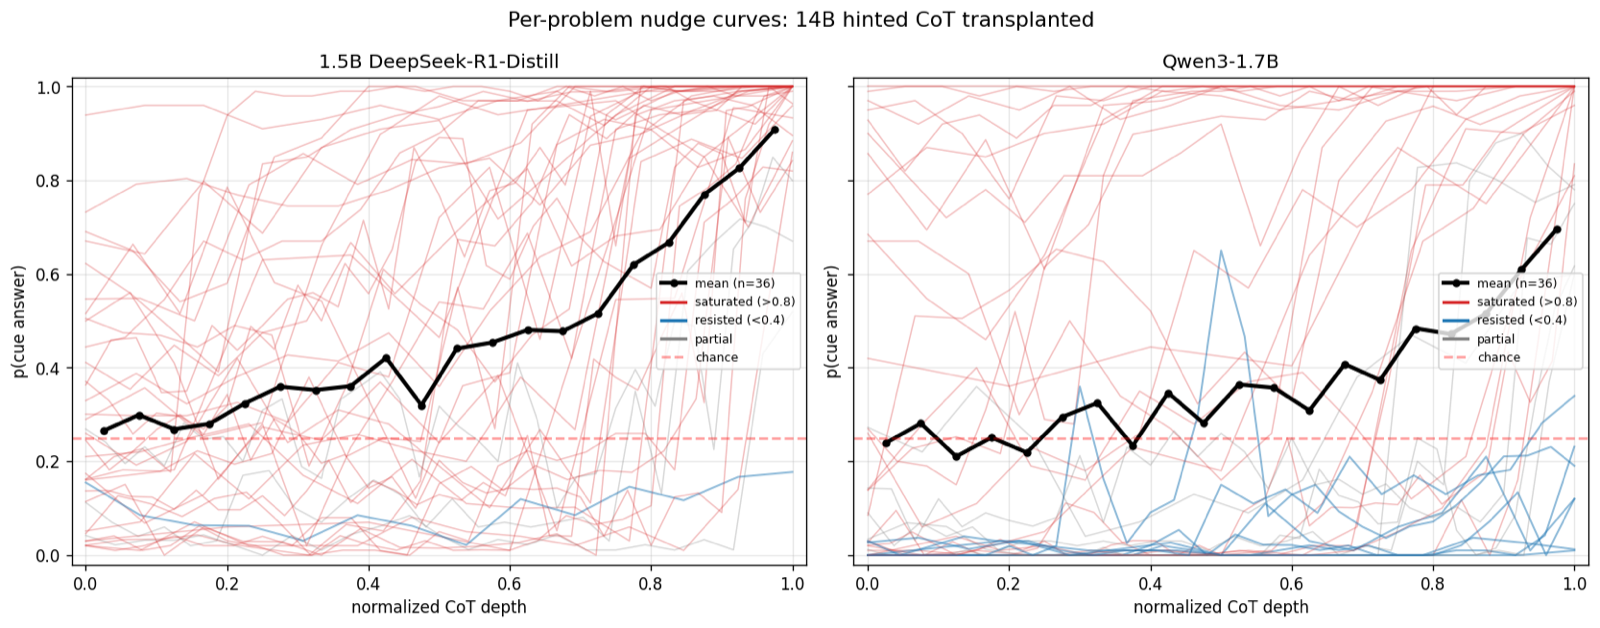
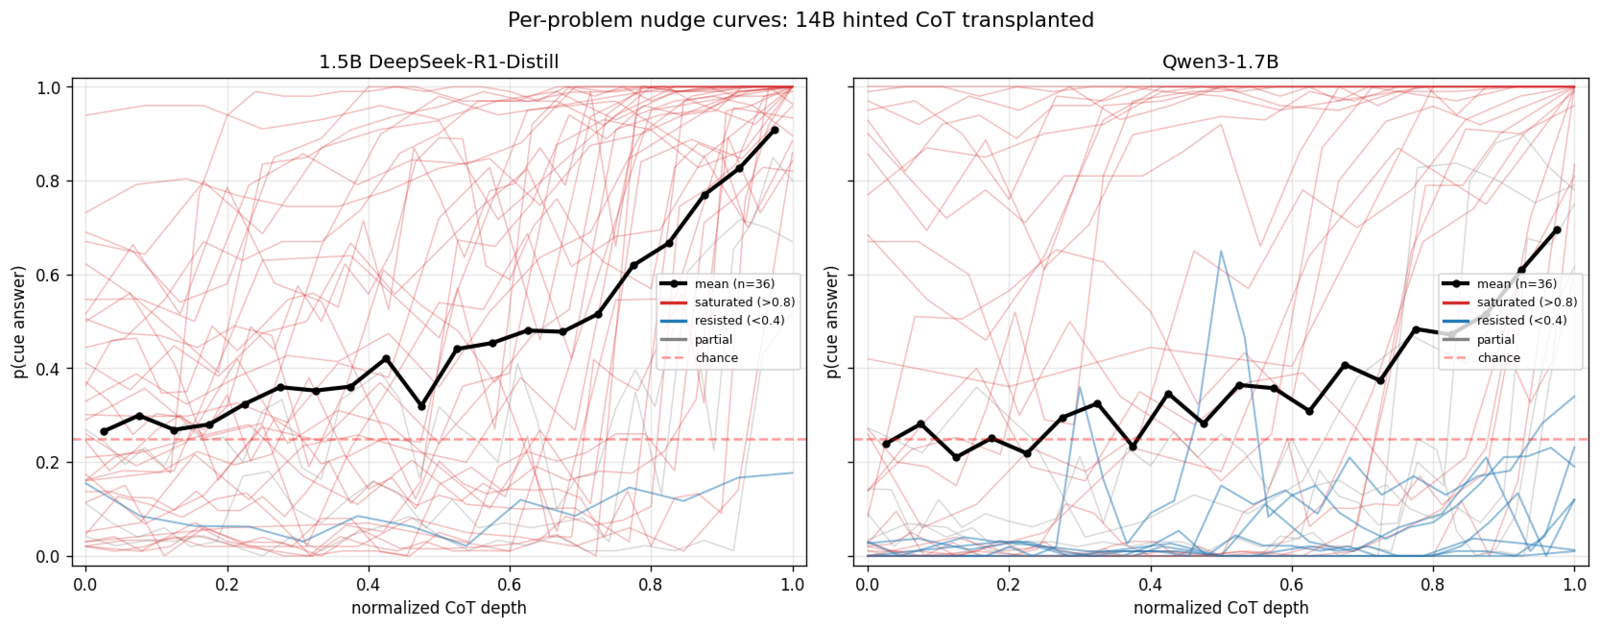
publish: activations, traces-even-for, pointers

Changed region(s): [[0.0625, 0.8774, 0.5, 0.9076], [0.5625, 0.8774, 0.9688, 0.9076]]

diff --git a/_writing/personas-as-pointers.md b/_writing/personas-as-pointers.md
@@ -1,6 +1,6 @@
 ---
 title: Personas as pointers
-description: Using other people's vibes as shortcuts to states of mind
+description: "Using other people's vibes as shortcuts to states of mind"
 date: 2026-04-03
 ---
 I saw a tweet recently about ADHD brains being similar to LLM minds, and it made me think about something adjacent, which is personas.

diff --git a/_writing/reasoning-model-activations.md b/_writing/reasoning-model-activations.md
@@ -1,5 +1,5 @@
 ---
-title: Reasoning Model Activations May Encode Hint Influence That Chain-of-Thought Doesn't Reveal
+title: "Reasoning Model Activations May Encode Hint Influence That Chain-of-Thought Doesn't Reveal"
 description: Linear probes detect hint influence in OLMo reasoning model activations
 date: 2026-04-02
 ---

diff --git a/_writing/what-are-thinking-traces-even-for.md b/_writing/what-are-thinking-traces-even-for.md
@@ -1,5 +1,5 @@
 ---
-title: What are thinking traces even for?
+title: "What are thinking traces even for?"
 description: Inkhaven day 1
 date: 2026-04-01
 ---